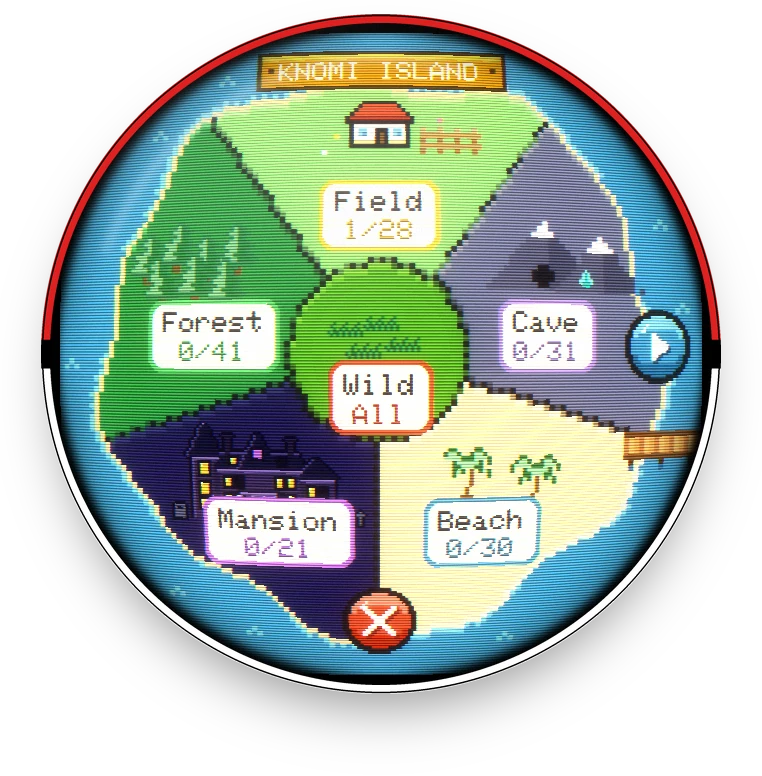
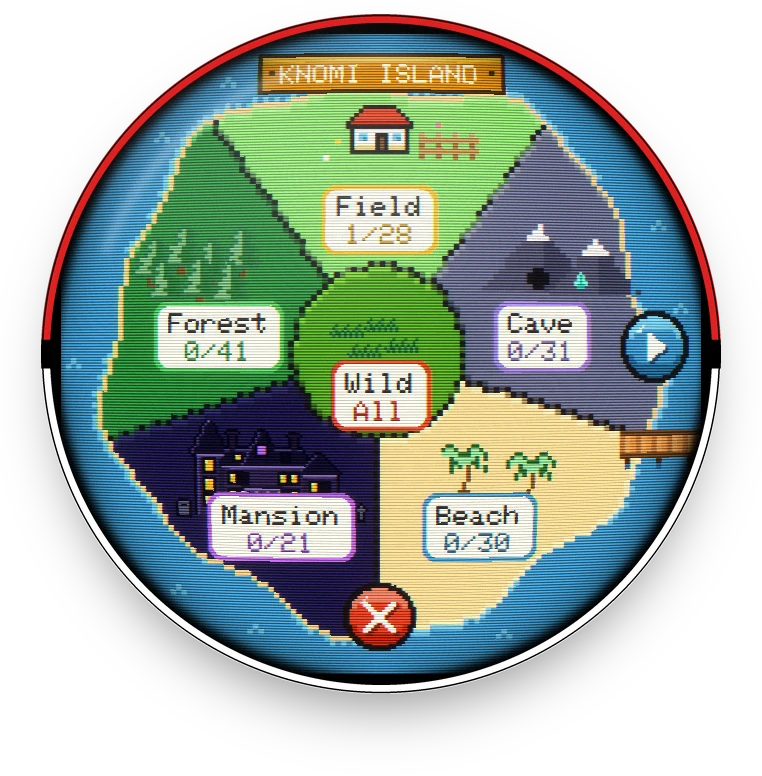
README: Moltres flying through the Cave on a loop, and the CRT pictures in the softer look
Fedor: "For the On Your Computer shot on the Repo, lets have that be a gif of Motres flying and the world moving on a
seamless loop." crt-cave.webp is now an animated WebP (so the drop shadow stays soft): 84 frames at 100 ms, one of
the walk's 8.4 s loops, captured with the host's clock stepped exactly and cut where the frames match pixel for
pixel, then drawn through the CRT screen in the ring over the shadow. 808 x 822, 2.4 MB. The four CRT pictures
under On your computer are drawn again with 2.1.3's softer CRT look.

diff --git a/docs/V2.md b/docs/V2.md
@@ -691,7 +691,11 @@ headless Chrome with a profile of its own, from 127.0.0.1 (so never on the relay
 its own Import save: 820 x 680 and 390 x 780 at 2x, a phone with touch, with the CRT screen as the page opens (2.1.2).
 The README's computer pictures (`crt-*.webp`, 2.1.2) are the apps' CRT screen (`host/host_crt.cpp`) in the Mac
 app's Poké Ball ring over its drop shadow (`host/host_shadow.h`), at twice the width they are shown, so a Retina
-screen shows them pixel for pixel; the Knomi's own pictures stay below them, labelled. The README's two Knomi photos show V2's
+screen shows them pixel for pixel; the Knomi's own pictures stay below them, labelled. Since 2.1.3 they show the
+softer CRT look, and the top one (`crt-cave.webp`) moves (Fedor: "a gif of Moltres flying and the world moving on a
+seamless loop"): an animated WebP, so the shadow stays soft, of 84 frames at 100 ms, one of the walk's 8.4 s loops,
+made with the host's clock stepped exactly (10 ms a tick) and starting where frame n and frame n + 84 are the same
+pixels (the hearts over a happy Pokémon come at random). The README's two Knomi photos show V2's
 starter screen put into the real photos (`docs/images/v2/knomi-in-hand.jpg`, `knomi-on-desk.jpg`: the screen's
 ellipse fitted from a mask of what isn't the red bezel, the frame squashed onto it and turned the way the old
 picture's rows ran), until Fedor takes new ones at launch (Fedor: "I will take actual photos once we launch the

diff --git a/README.md b/README.md
@@ -6,7 +6,7 @@ A Pokémon virtual pet for the **BTT Knomi V2**, the little round screen made fo
 
 | | |
 |:--:|:--:|
-| <img src="docs/images/v2/crt-cave.webp" width="404" alt="PokeMacGochi with its CRT screen, in its Poké Ball ring: Moltres in the Cave, with Pikachu and Venomoth visiting"> | <img src="docs/images/v2/knomi-gameboys.gif" width="360" alt="PokeKnomiGochi on a BTT Knomi V2 in its 3D-printed Poké Ball case, on a desk beside two Game Boys: Gengar walking past the haunted Mansion"> |
+| <img src="docs/images/v2/crt-cave.webp" width="404" alt="PokeMacGochi with its CRT screen, in its Poké Ball ring: Moltres flying through the Cave as the ground slides by, with Pikachu visiting"> | <img src="docs/images/v2/knomi-gameboys.gif" width="360" alt="PokeKnomiGochi on a BTT Knomi V2 in its 3D-printed Poké Ball case, on a desk beside two Game Boys: Gengar walking past the haunted Mansion"> |
 | **On your computer**<br><sub>Mac, Windows and the browser, with the CRT screen</sub> | **On the Knomi V2**<br><sub>its real round screen, in a 3D-printed Poké Ball</sub> |
 
 **No Knomi? [Play it in your browser](https://pokewebgochi.3dprintsos.com)** on a computer, phone or tablet, or get the [Mac app](#pokemacgochi-mac) or the [Windows app](#pokewingochi-windows). **CRT effect:** each scanline a soft beam, a warm glow, a slightly curved glass for that nostalgia look.
